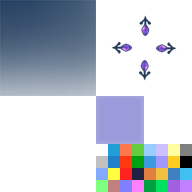
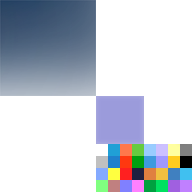
Jank

diff --git a/releases/techdemo/js/plugins.js b/releases/techdemo/js/plugins.js
@@ -39,6 +39,5 @@ var $plugins =
 {"name":"SRD_Debug_SpeedUp","status":true,"description":"Allows you to speed up your game during testing!","parameters":{"Playtesting Only?":"false","Speed Toggle Key":"L","Fade Indicator?":"false","== Speed Keys ==":"","x1 Speed Key":"","x1.25 Speed Key":"","x1.5 Speed Key":"","x2 Speed Key":"","x3 Speed Key":"","x5 Speed Key":"","x10 Speed Key":""}},
 {"name":"DK_Video_Player","status":true,"description":"v.1.2.3 [MV|MZ] Adds video to the title screen, credits, the layers on the map and other.","parameters":{"videoExtension":".webm","Title screen":"---------------------------------","titleVideos":"{\"videos\":\"[]\",\"okBehavior\":\"\",\"cancelBehavior\":\"\",\"playbackRate\":\"150\"}","titleBackground":"{\"src\":\"\",\"volume\":\"100\",\"playbackRate\":\"100\"}","creditsVideos":"{\"commandName\":\"cred\",\"videos\":\"[\\\"{\\\\\\\"src\\\\\\\":\\\\\\\"cutscene7placeholder\\\\\\\",\\\\\\\"volume\\\\\\\":\\\\\\\"100\\\\\\\",\\\\\\\"playbackRate\\\\\\\":\\\\\\\"100\\\\\\\"}\\\"]\",\"okBehavior\":\"skip\",\"cancelBehavior\":\"skip\",\"playbackRate\":\"150\"}","Map":"---------------------------------","mapMaxLayers":"5","mapOkBehavior":"","mapCancelBehavior":"","Menu":"---------------------------------","menuBackground":"","RPG Maker MV":"---------------------------------","useMasterVolume":"false"}},
 {"name":"HIME_PreTitleEvents","status":true,"description":"Build your own sequence of events that should occur before\r\nthe title screen begins","parameters":{"Pre-Title Map ID":"1","Use As Title":"false"}},
-{"name":"MOG_CursorBorder","status":true,"description":"(v1.0) Adiciona bordas na seleção de comandos.","parameters":{"Border Visible":"true","Border Line Visible":"false","Border Animation":"false","X-Axis Offset":"0","Y-Axis Offset":"0","Border X-Space":"4","Border Y-Space":"4"}},
 {"name":"MOG_MenuCursor","status":true,"description":"(v1.6) Adiciona um cursor animado no menu.","parameters":{"Slide Animation":"true","Cursor X-axis":"-7","Cursor Y-axis":"8","Frames Animation":"false","Max Frames":"4","Animation Speed":"7"}}
 ];
